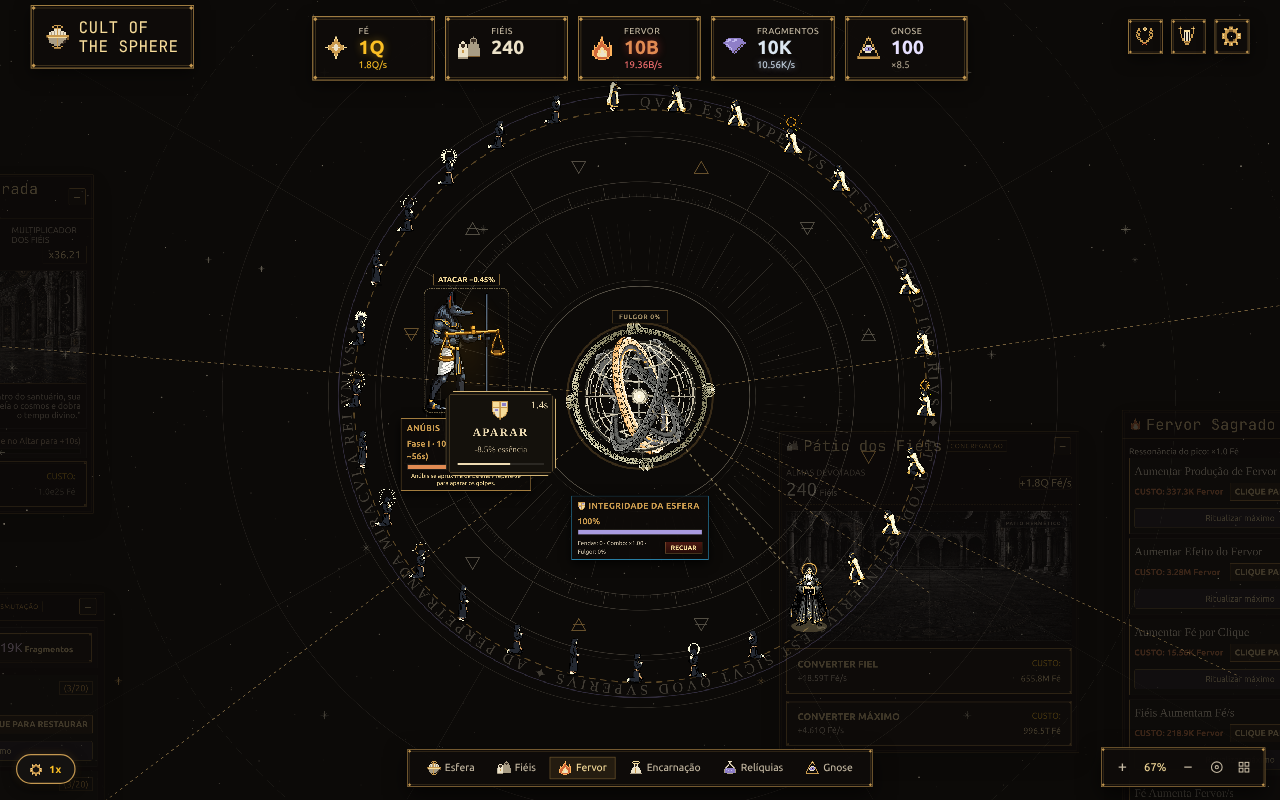
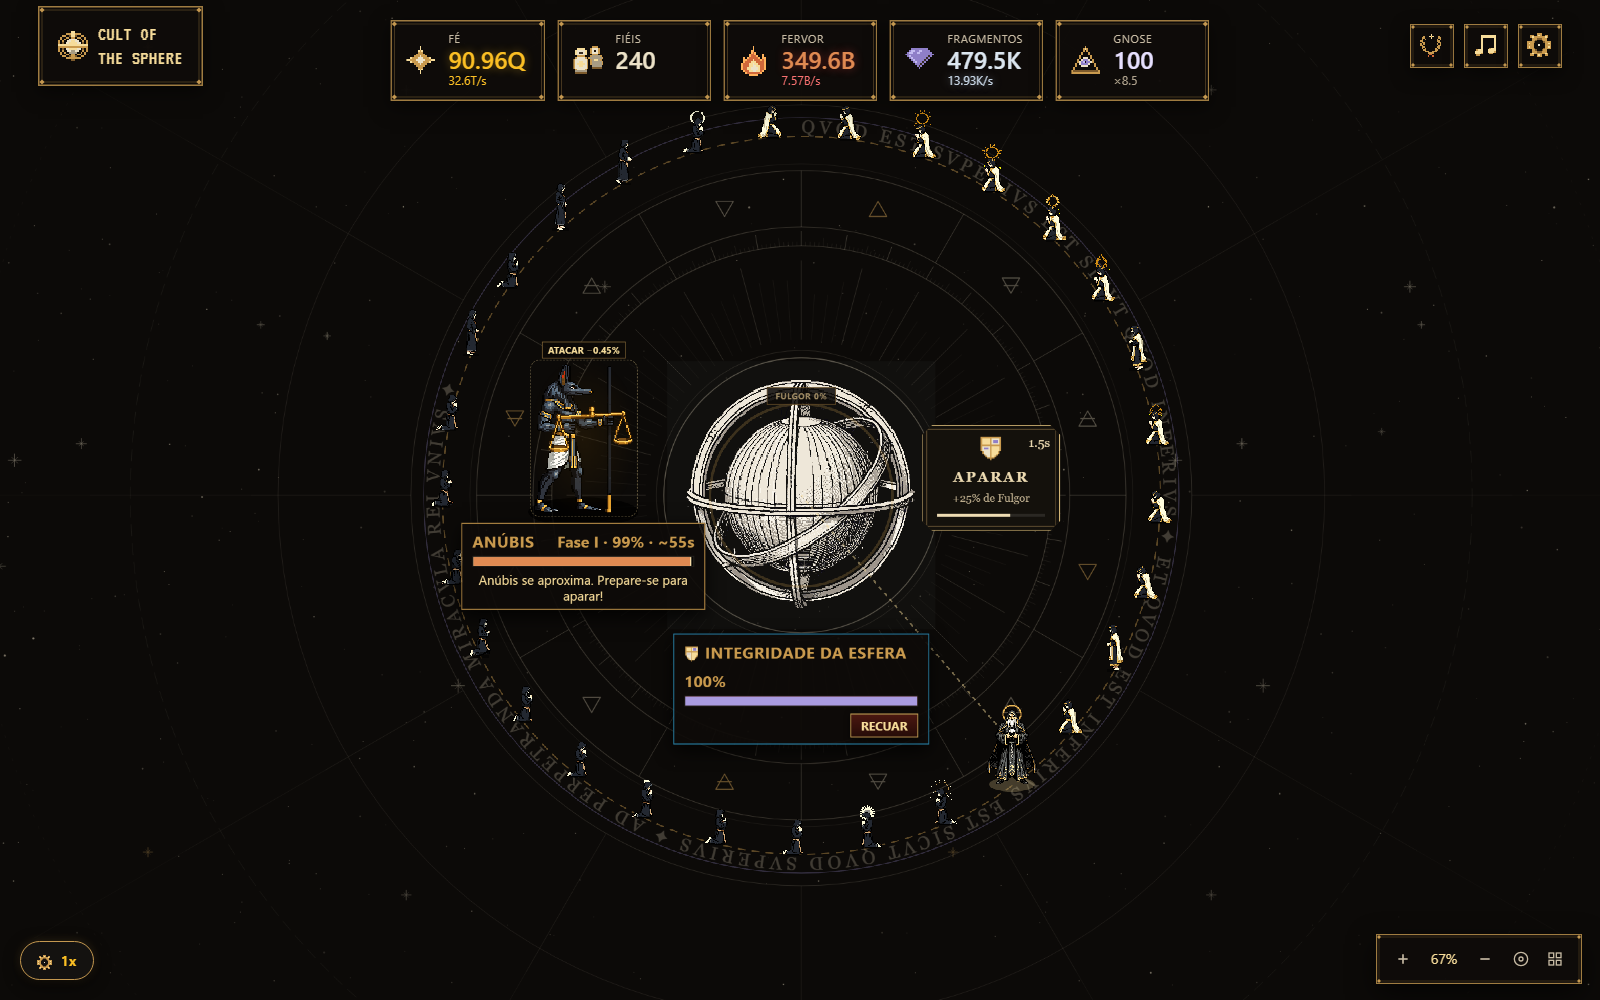
docs: bring the GDD up to date with version 0.9.0
- Correct parry, combo, Guardian signature and automation rules
- Describe the battle screen, Gnose card, notifications and audio options
- Refresh the screenshots, also used by the README

diff --git a/docs/screenshots/README.md b/docs/screenshots/README.md
@@ -1,11 +1,11 @@
 # Capturas da interface
 
-Capturadas em **03/11/2026**, no navegador, a partir do servidor Vite local. São telas reais do jogo em uma sessão isolada de demonstração, com recursos preparados pelas ferramentas de desenvolvimento. Os saldos não representam uma medição de progressão ou uma campanha concluída.
+Capturadas em **06/11/2026**, na versão 0.9.0, no navegador, a partir do build local. São telas reais do jogo em uma sessão isolada de demonstração, com recursos preparados em um save de teste. Os saldos não representam uma medição de progressão ou uma campanha concluída.
 
 | Arquivo | Cena |
 | --- | --- |
 | [santuario.png](santuario.png) | Esfera, HUD astral e Pátio dos Fiéis. |
-| [gnose.png](gnose.png) | Árvore Hermética, tiers e indicadores de prontidão. |
+| [gnose.png](gnose.png) | Câmara da Gnose, Árvore Hermética, tiers e prontidão. |
 | [duelo-anubis.png](duelo-anubis.png) | Anúbis, Esfera, círculo de Fiéis e ação de aparar. |
 
 ## Atualizar
